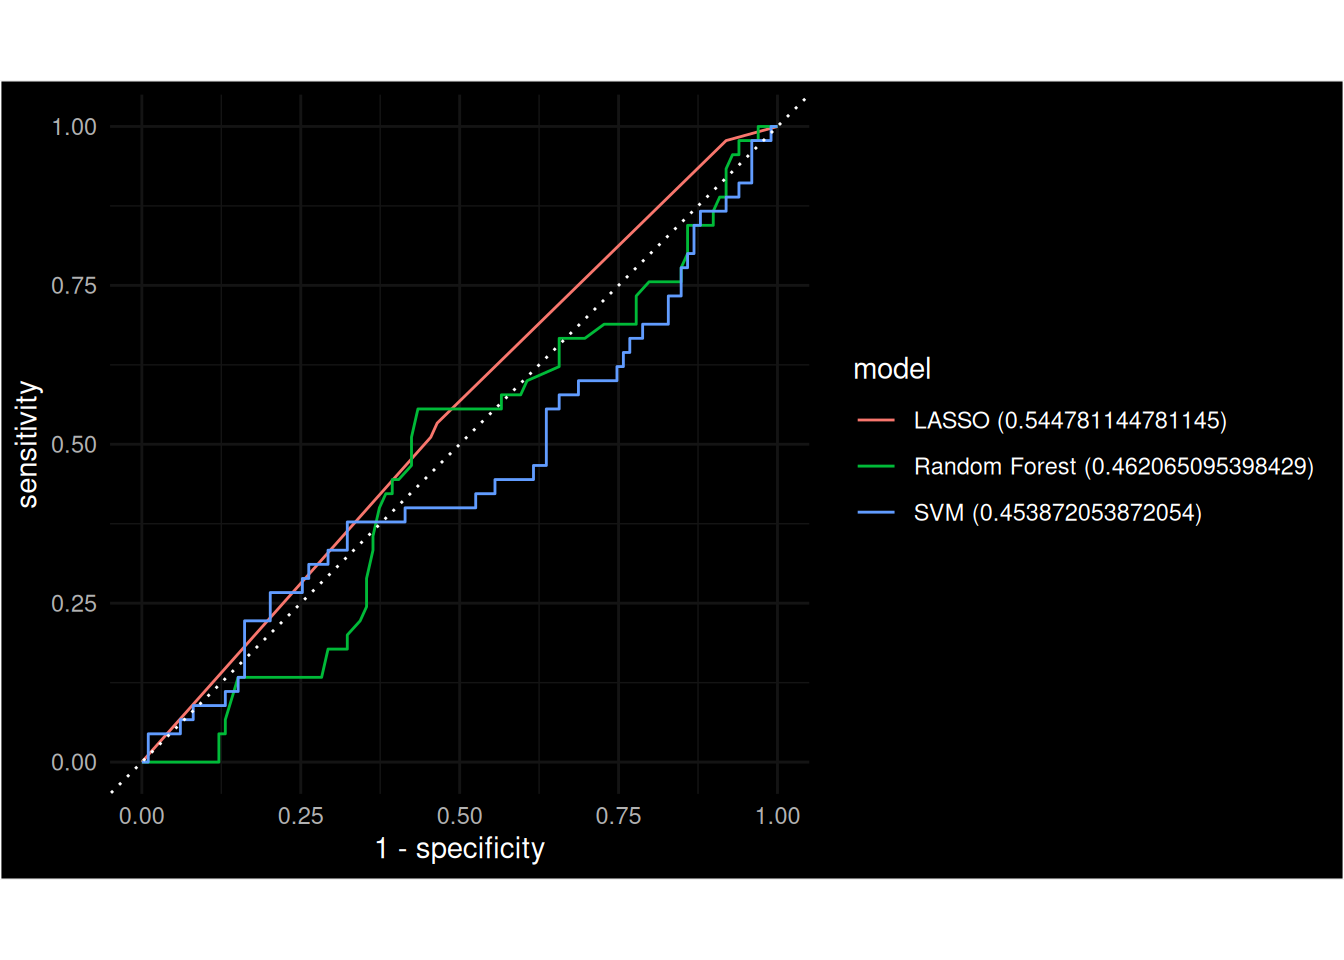
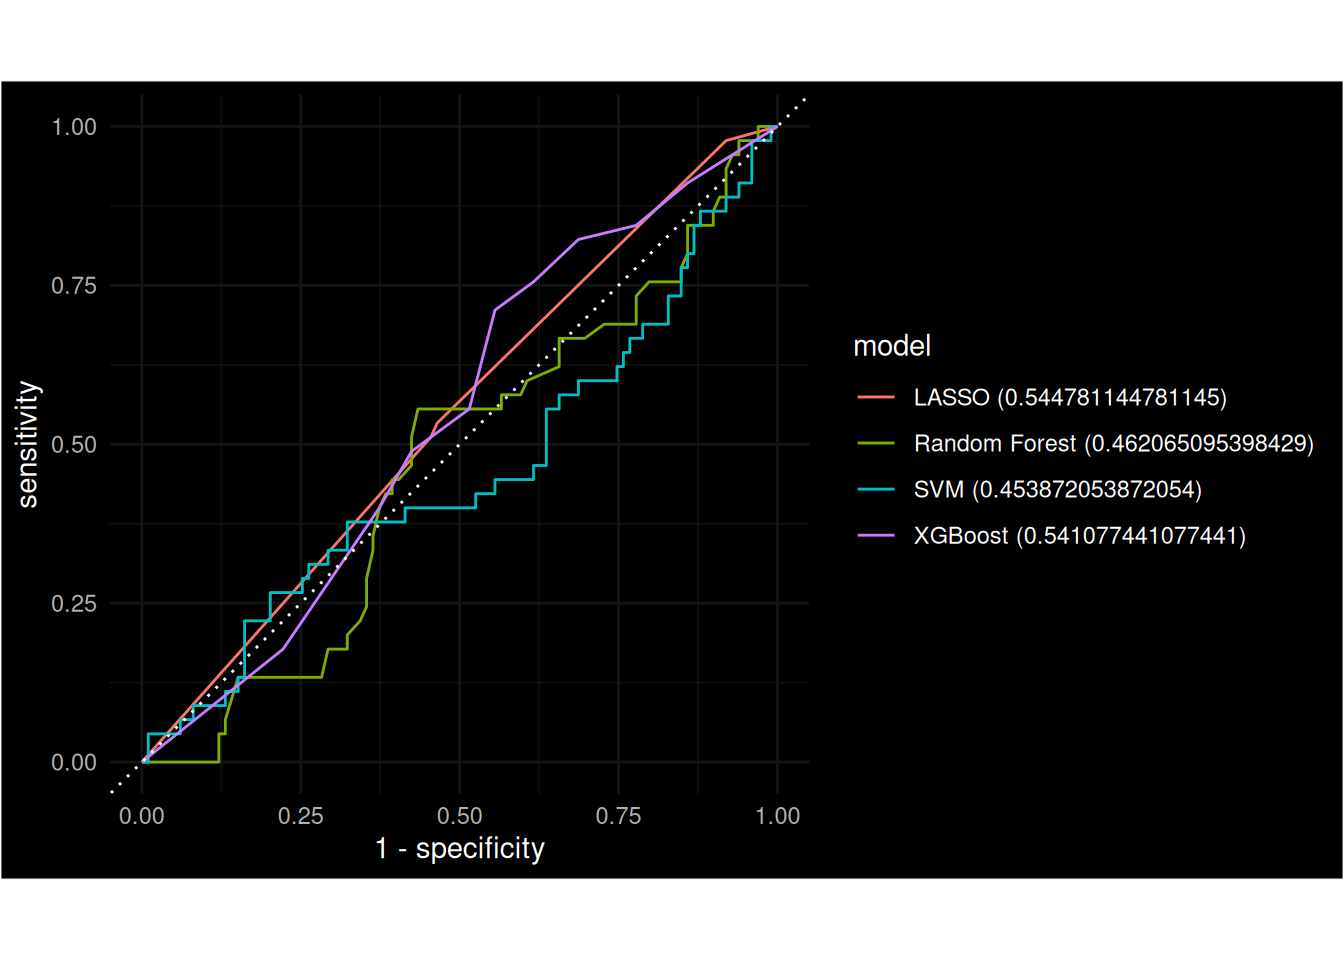
Built site for gh-pages

diff --git a/modelling.html b/modelling.html
@@ -582,7 +582,7 @@ To change them back, use invert_geom_defaults().</code></pre>
 <span id="cb25-12"><a href="#cb25-12" aria-hidden="true" tabindex="-1"></a>xgboost_confmat <span class="ot">&lt;-</span> tune<span class="sc">::</span><span class="fu">last_fit</span>(final_xgboost, split) <span class="sc">|&gt;</span></span>
 <span id="cb25-13"><a href="#cb25-13" aria-hidden="true" tabindex="-1"></a>  tune<span class="sc">::</span><span class="fu">collect_predictions</span>() <span class="sc">|&gt;</span></span>
 <span id="cb25-14"><a href="#cb25-14" aria-hidden="true" tabindex="-1"></a>  yardstick<span class="sc">::</span><span class="fu">conf_mat</span>(final_pathology, .pred_class)</span>
-<span id="cb25-15"><a href="#cb25-15" aria-hidden="true" tabindex="-1"></a>knitr<span class="sc">::</span><span class="fu">kable</span>(xgboost_confmat<span class="sc">$</span>table, <span class="at">caption=</span><span class="st">"XGBoost"</span>)</span>
+<span id="cb25-15"><a href="#cb25-15" aria-hidden="true" tabindex="-1"></a>knitr<span class="sc">::</span><span class="fu">kable</span>(xgboost_confmat<span class="sc">$</span>table, <span class="at">caption =</span> <span class="st">"XGBoost"</span>)</span>
 <span id="cb25-16"><a href="#cb25-16" aria-hidden="true" tabindex="-1"></a><span class="do">## SVM</span></span>
 <span id="cb25-17"><a href="#cb25-17" aria-hidden="true" tabindex="-1"></a>svm_confmat <span class="ot">&lt;-</span> tune<span class="sc">::</span><span class="fu">last_fit</span>(final_svm, split) <span class="sc">|&gt;</span></span>
 <span id="cb25-18"><a href="#cb25-18" aria-hidden="true" tabindex="-1"></a>  tune<span class="sc">::</span><span class="fu">collect_predictions</span>() <span class="sc">|&gt;</span></span>
@@ -916,7 +916,7 @@ Benign</code></pre>
 <span id="cb31-35"><a href="#cb31-35" aria-hidden="true" tabindex="-1"></a>roc_svm<span class="sc">$</span>model <span class="ot">&lt;-</span> <span class="fu">paste0</span>(<span class="st">"SVM ("</span>, roc_auc_svm<span class="sc">$</span>.estimate, <span class="st">")"</span>)</span>
 <span id="cb31-36"><a href="#cb31-36" aria-hidden="true" tabindex="-1"></a></span>
 <span id="cb31-37"><a href="#cb31-37" aria-hidden="true" tabindex="-1"></a><span class="do">## Combine ROC curves across all three models and plot</span></span>
-<span id="cb31-38"><a href="#cb31-38" aria-hidden="true" tabindex="-1"></a>roc_all <span class="ot">&lt;-</span> <span class="fu">rbind</span>(roc_rf, roc_lasso, roc_svm)</span>
+<span id="cb31-38"><a href="#cb31-38" aria-hidden="true" tabindex="-1"></a>roc_all <span class="ot">&lt;-</span> <span class="fu">rbind</span>(roc_lasso, roc_rf, roc_xgboost, roc_svm)</span>
 <span id="cb31-39"><a href="#cb31-39" aria-hidden="true" tabindex="-1"></a>roc_all <span class="sc">|&gt;</span> <span class="fu">ggplot</span>(<span class="fu">aes</span>(<span class="at">x =</span> <span class="dv">1</span> <span class="sc">-</span> specificity, <span class="at">y =</span> sensitivity, <span class="at">color =</span> model)) <span class="sc">+</span></span>
 <span id="cb31-40"><a href="#cb31-40" aria-hidden="true" tabindex="-1"></a>  <span class="fu">geom_path</span>() <span class="sc">+</span></span>
 <span id="cb31-41"><a href="#cb31-41" aria-hidden="true" tabindex="-1"></a>  <span class="fu">geom_abline</span>(<span class="at">lty =</span> <span class="dv">3</span>) <span class="sc">+</span></span>
